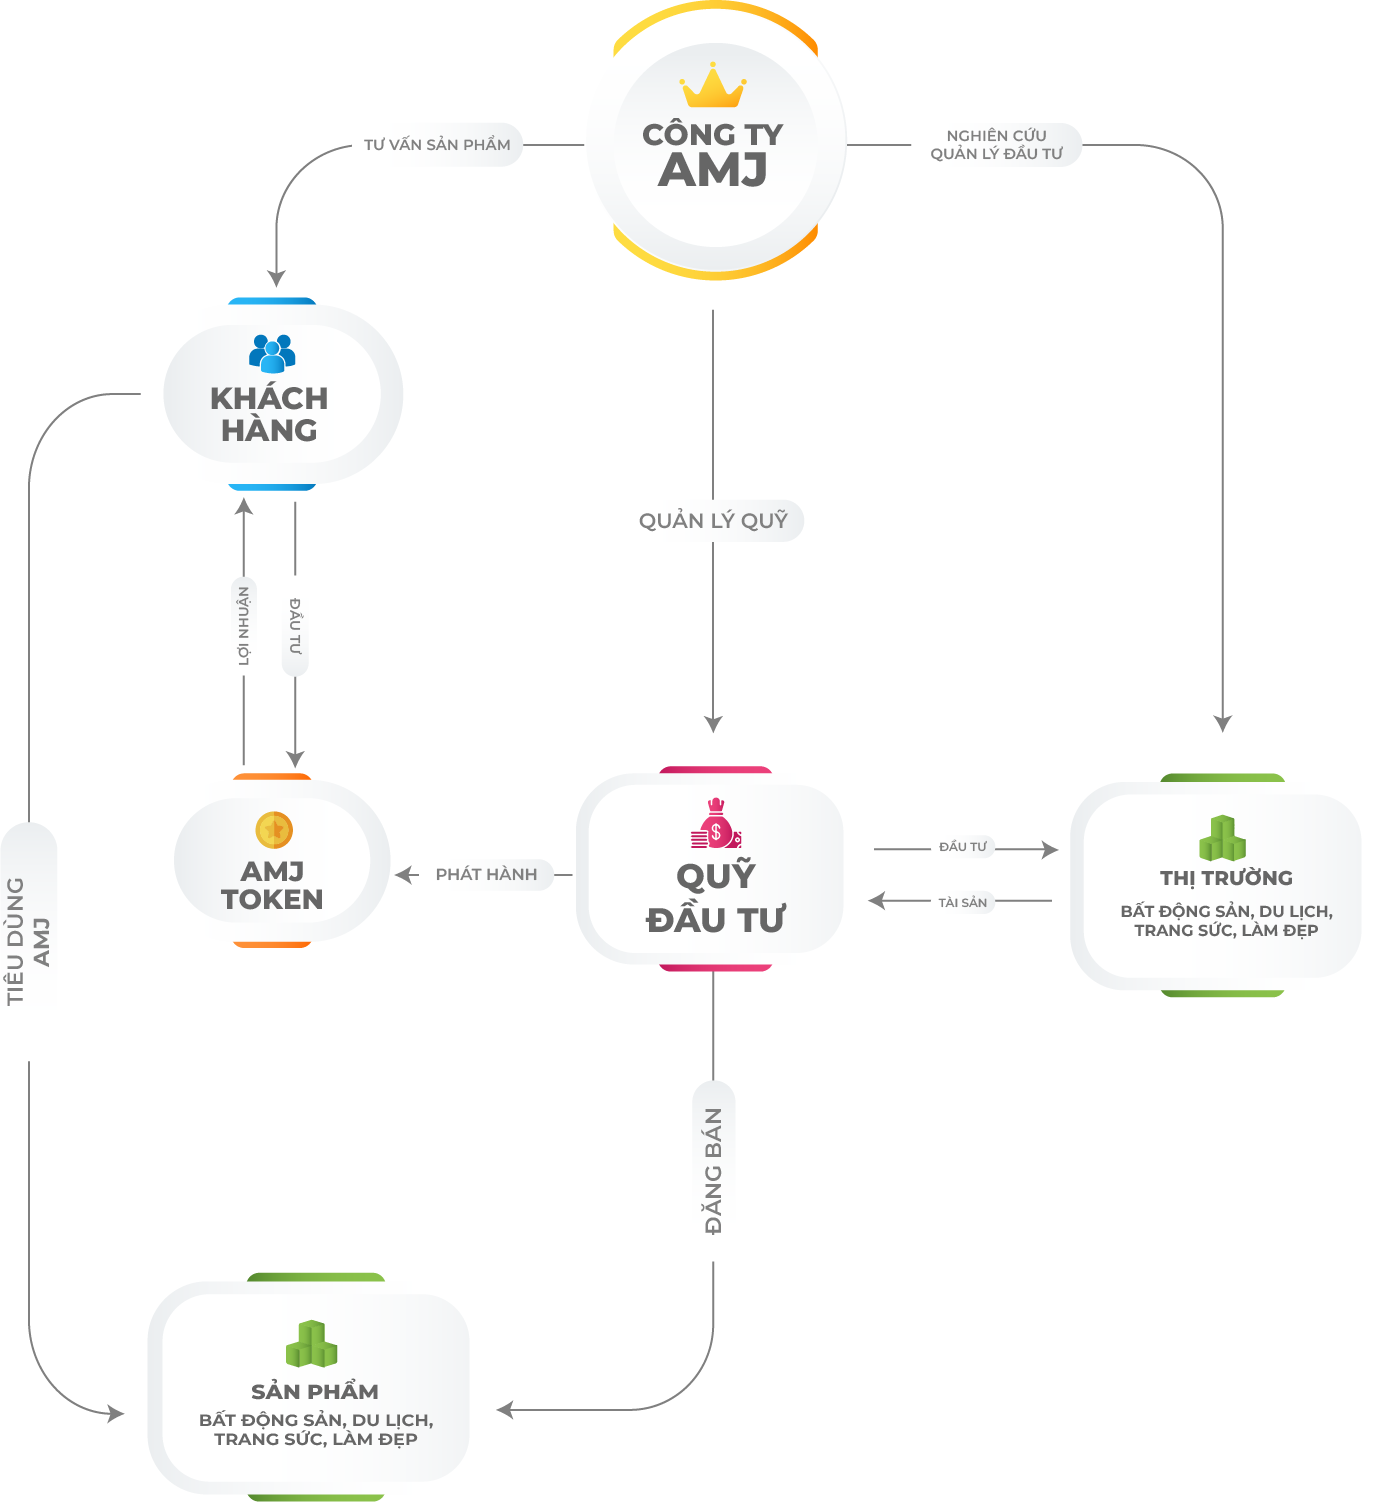
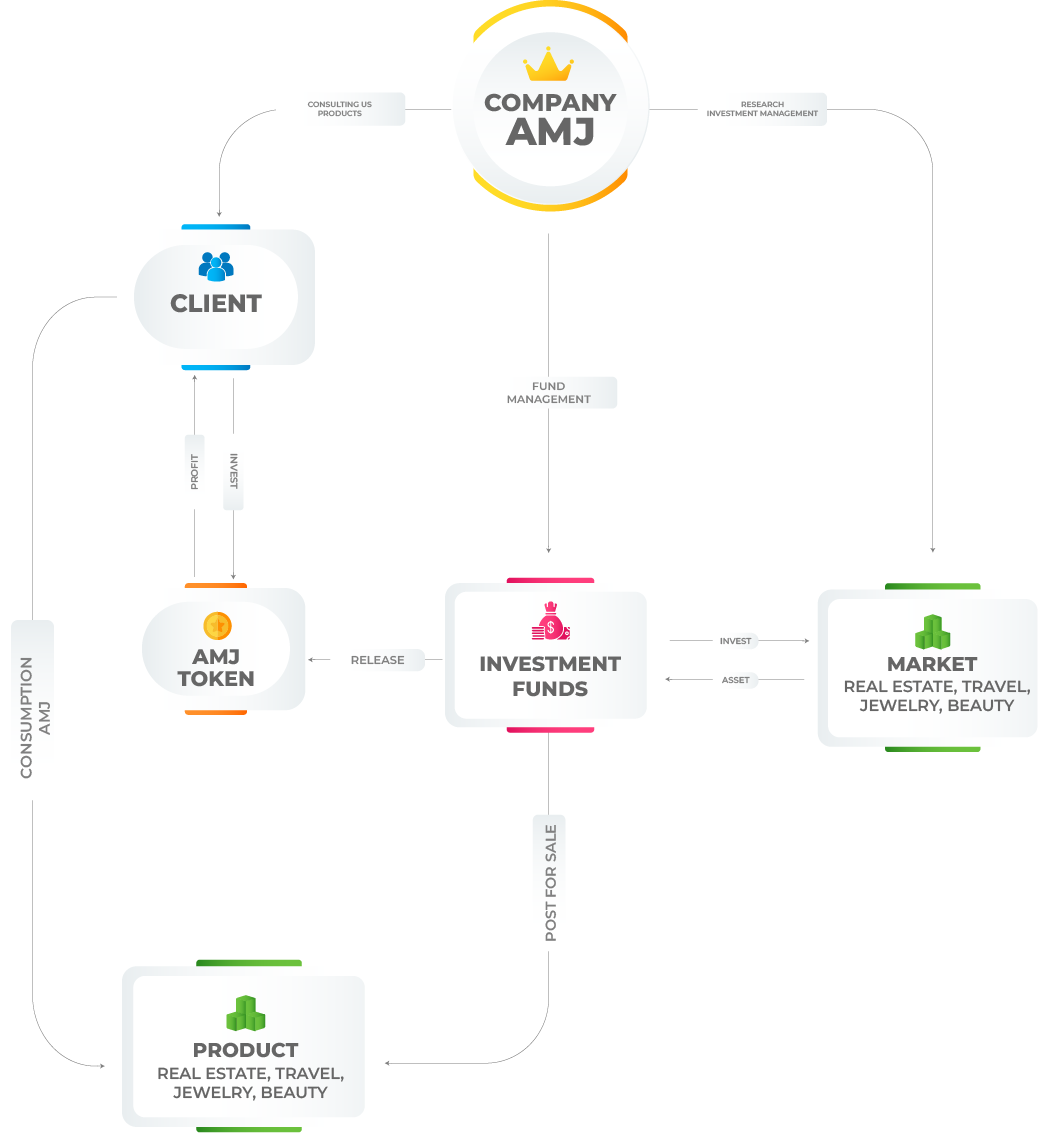
update images english

diff --git a/index.html b/index.html
@@ -30,9 +30,9 @@
     <link href="https://fonts.googleapis.com/css2?family=Cormorant+SC:wght@300;400;500;600;700&display=swap"
         rel="stylesheet">
 
-    <link rel="stylesheet" href="./bootstrap.min.css">
-    <link rel="stylesheet" href="./style.css">
-    <link rel="stylesheet" href="./responsive.css">
+    <link rel="stylesheet" href="./assets/css/bootstrap.min.css">
+    <link rel="stylesheet" href="./assets/css/style.css">
+    <link rel="stylesheet" href="./assets/css/responsive.css">
 
     <!-- meta -->
     <meta name="title" content="AMJ ">
@@ -545,18 +545,18 @@
                             beside you to control the future.
                         </div>
                         <div class="footer-social">
-                            <div class="footer-social-item centering">
+                            <a class="footer-social-item centering">
                                 <i class="fa-brands fa-facebook"></i>
-                            </div>
-                            <div class="footer-social-item centering">
+                            </a>
+                            <a class="footer-social-item centering">
                                 <i class="fa-solid fa-paper-plane"></i>
-                            </div>
-                            <div class="footer-social-item centering">
+                            </a>
+                            <a class="footer-social-item centering">
                                 <i class="fa-brands fa-twitter"></i>
-                            </div>
-                            <div class="footer-social-item centering">
+                            </a>
+                            <a class="footer-social-item centering">
                                 <i class="fa-brands fa-youtube"></i>
-                            </div>
+                            </a>
                         </div>
                     </div>
                 </div>
@@ -571,4 +571,4 @@
 
 </html>
 
-<script src="./main.js"></script>
+<script src="./assets/js/main.js"></script>

diff --git a/assets/css/style.css b/assets/css/style.css
@@ -40,7 +40,7 @@ a:hover{
 }
 
 .bg-intro{
-    background-image: url(./assets/images/bg-intro.png);
+    background-image: url(../images/bg-intro.png);
     background-repeat: no-repeat;
     background-position: top left;
     background-size: 100% 100%;
@@ -184,7 +184,7 @@ a:hover{
 
 .about{
     margin: 30px 0;
-    background-image: url(./assets/images/wave.png);
+    background-image: url(../images/wave.png);
     background-repeat: no-repeat;
     background-position: left top;
     background-size: 80% 45%;
@@ -199,7 +199,7 @@ a:hover{
 }
 
 .about-2{
-    background-image: url(./assets/images/about-2.png);
+    background-image: url(../images/about-2.png);
     background-repeat: no-repeat;
     background-position: center;
     background-size: 100% 100%;
